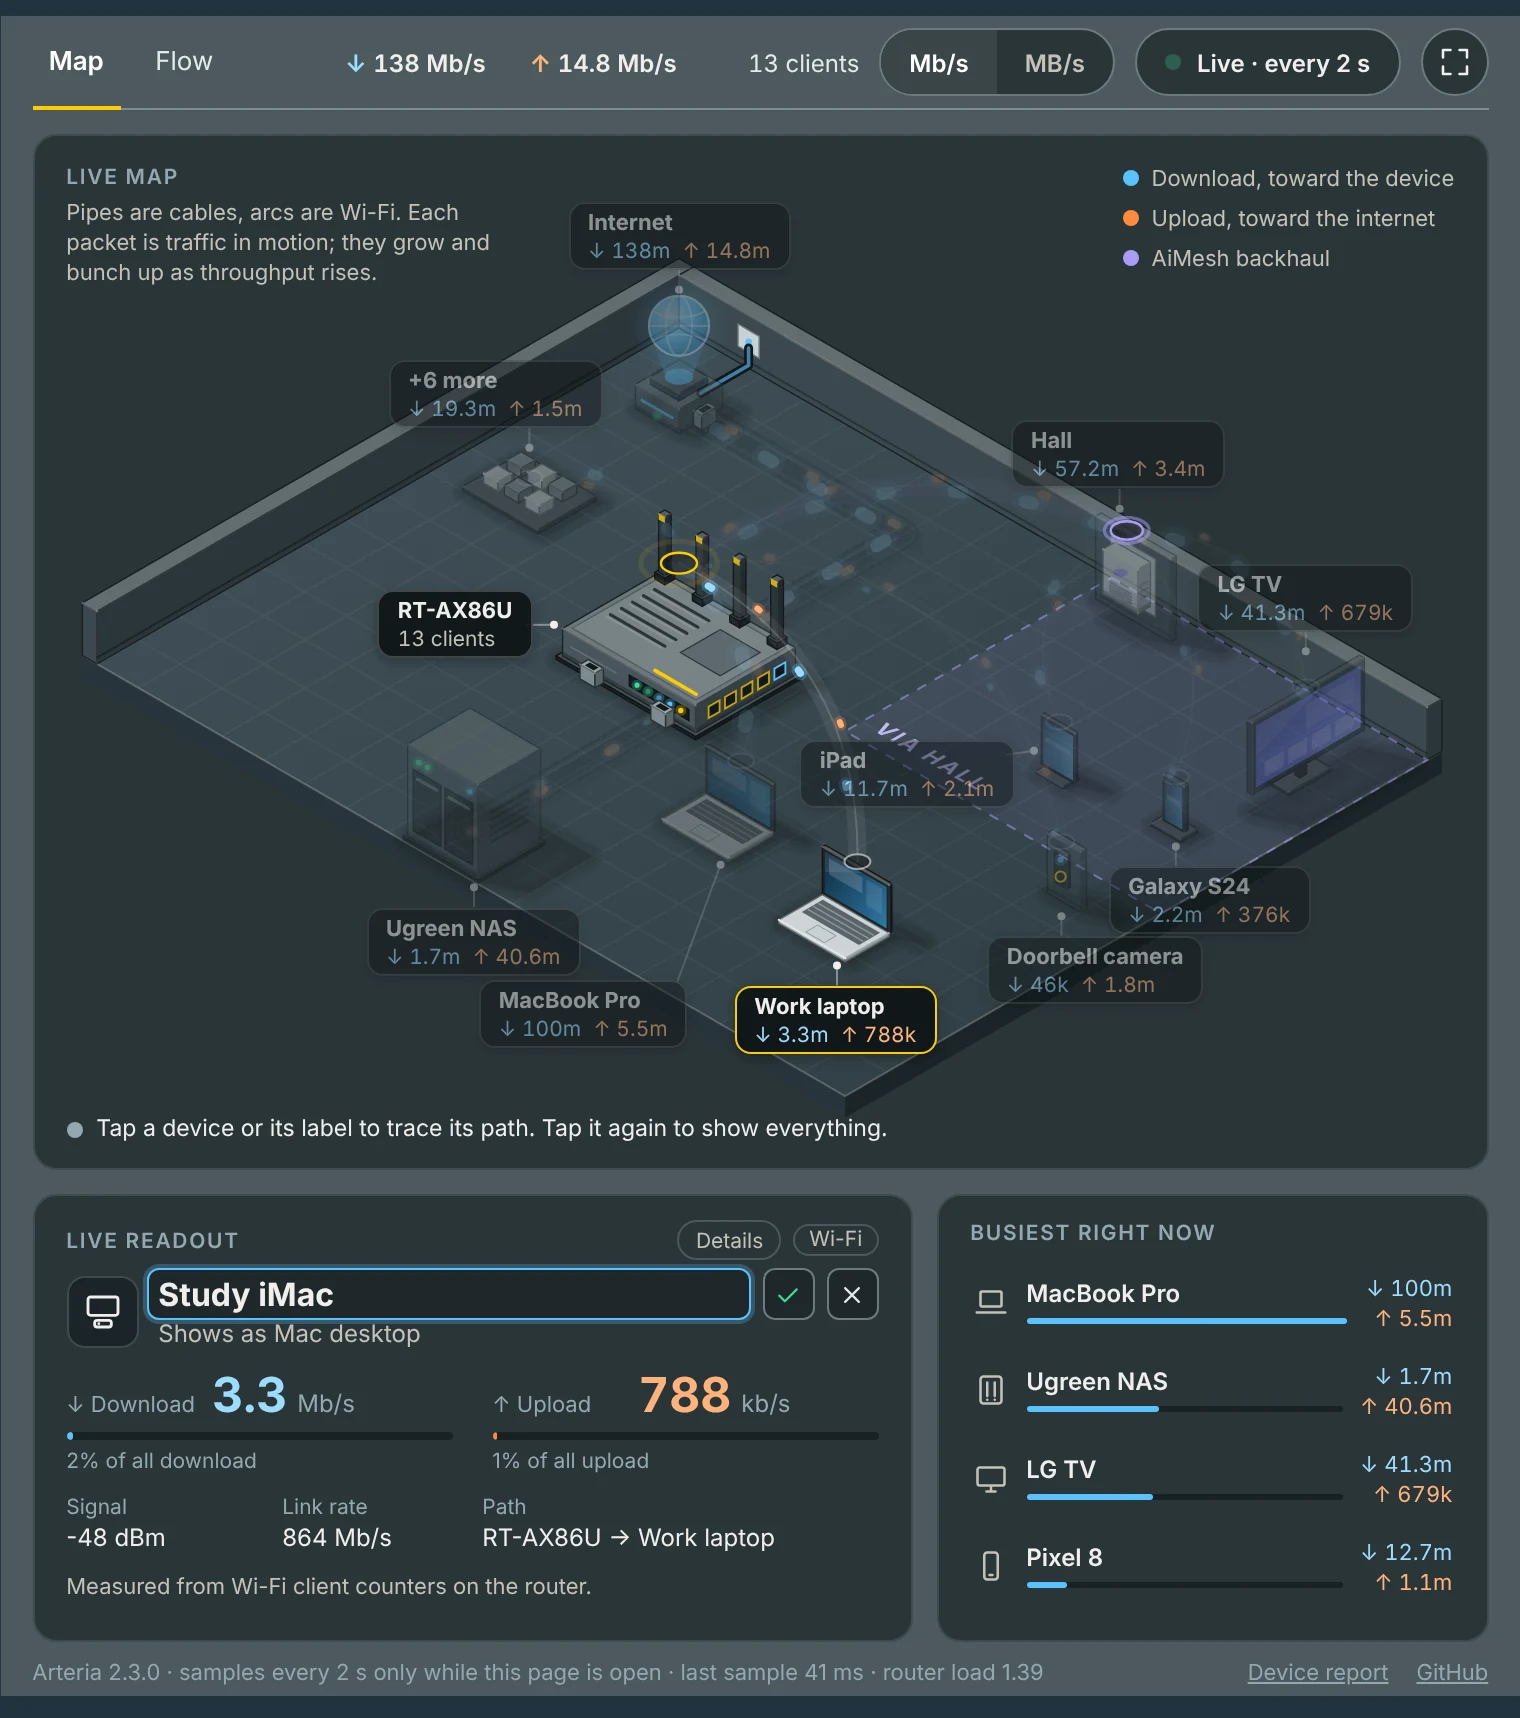
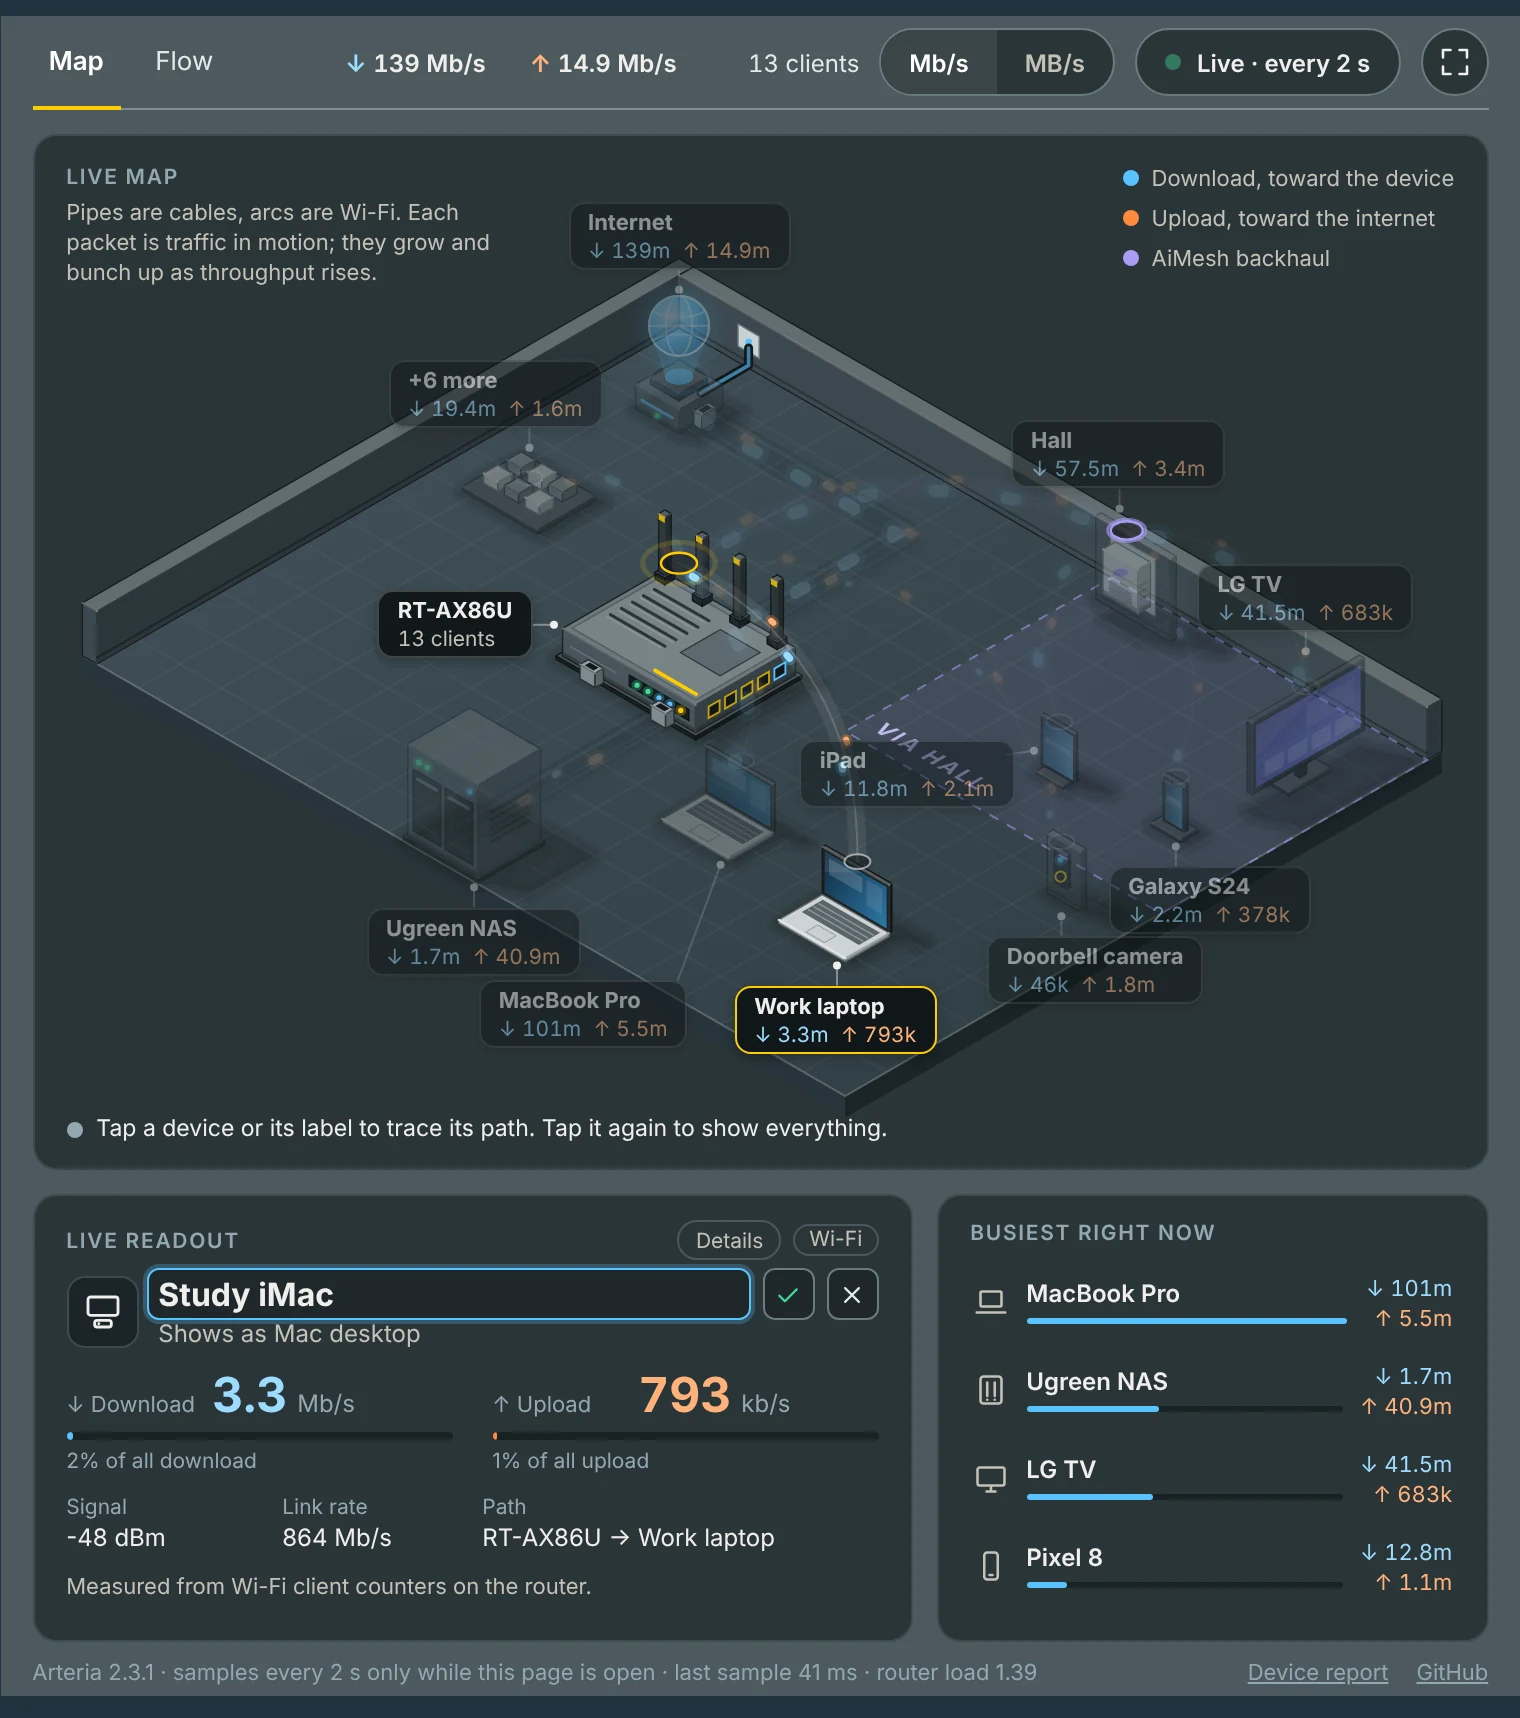
Release 2.3.1: no automatic logout while the page is open, a switch named only by a name that says so
- Version 2.3.1 in arteria.sh, the page and the bug report form.
- CHANGELOG: 2.3.1.
- Docs: the README's pictures, its demo and the forum GIF redrawn
  (the page's footer says 2.3.1).

Claude-Session: https://claude.ai/code/session_01VjX2uxd3MpU6CZq6psEPw5

diff --git a/CHANGELOG.md b/CHANGELOG.md
@@ -2,6 +2,13 @@
 
 What changed in each release of Arteria. The release workflow copies a version's section into its GitHub release notes, so write for people running the addon.
 
+## 2.3.1
+
+The router no longer logs you out while Arteria's page is open, and a switch is no longer named after a TV tuner behind it. Thanks to Slapdaddy in the SNBForums thread for the report, and to Squall Leonhart, who suggested the first for WiFi Insight.
+
+- **The router no longer logs you out while the page is open.** The router's *Auto Logout* (Administration > System, 30 minutes by default) is a countdown kept by each of its pages, so with Arteria open to watch, you were logged out mid-view. The page now turns it off while it's open, as the router's own System Log and real-time Traffic Monitor pages do. On the router's other pages it works as before.
+- **A switch is named after a device only when that device's name says "switch".** A switch on a port could take the name of a device behind it that had the router's Router or Repeater icon, a TV tuner for example, with the real switch listed behind it. The router's client list has no switch icon, the router gives its Router icon to devices it can't identify, and giving a device a nickname there keeps that icon. So an icon is no longer enough: a device behind a switch becomes the switch only when its name says so (*Office switch*, *Switch-01*), whether you named it or it names itself. A managed switch with only the Router icon now shows as *Switch on LAN 2*, listed behind it with its IP and MAC; put "switch" in its name to make it the switch.
+
 ## 2.3.0
 
 More room on the map: labels keep clear of other devices and no longer hide the traffic on other devices' lines, and in the expanded view the internet moves to the floor's top corner. The spacing adapts to how full the floor is, so the map shows about as many devices as 2.2.0 did, and a device that gets busy comes off the tray by itself, a TV too. Also wired devices on a port given to a Guest Network Pro VLAN or to an IPTV set-top box, and no more sleeping Wi-Fi sensors listed behind a switch that nodes are on. Thanks to K3r1m0 and jksmurf in the SNBForums thread for reporting them.
